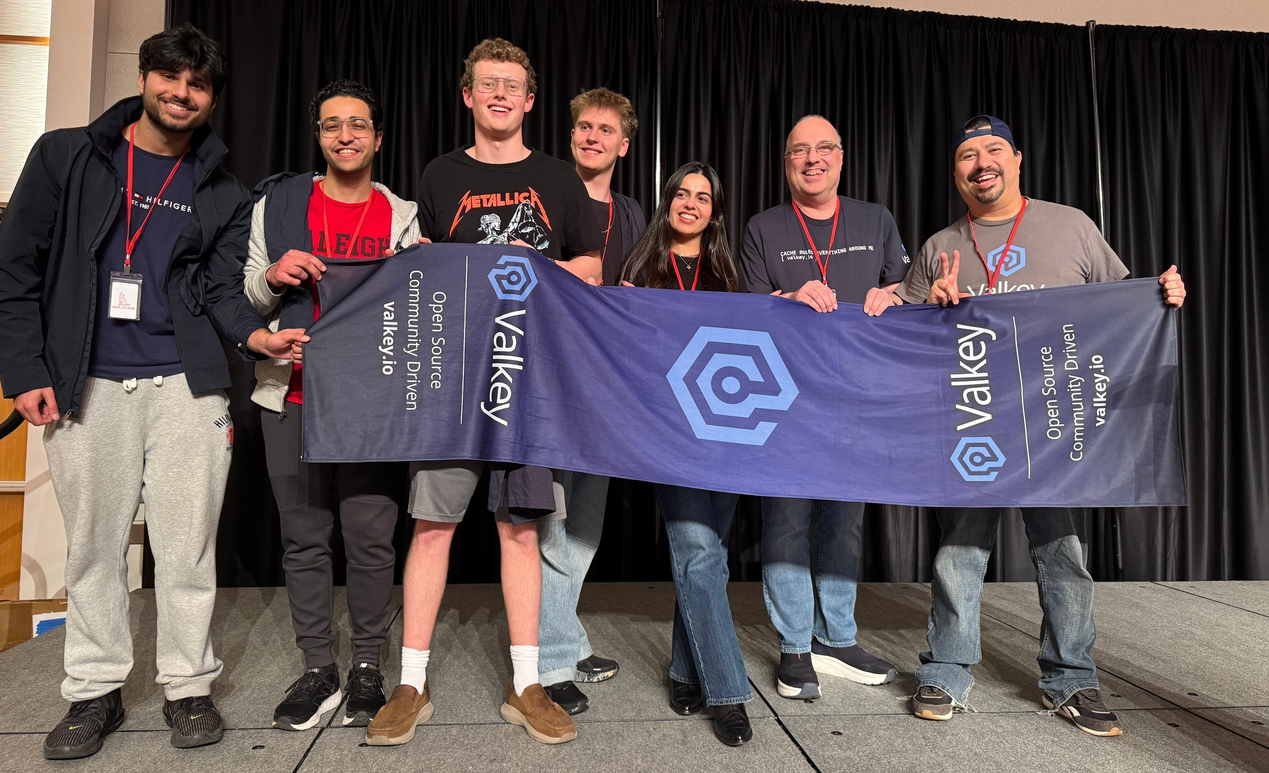
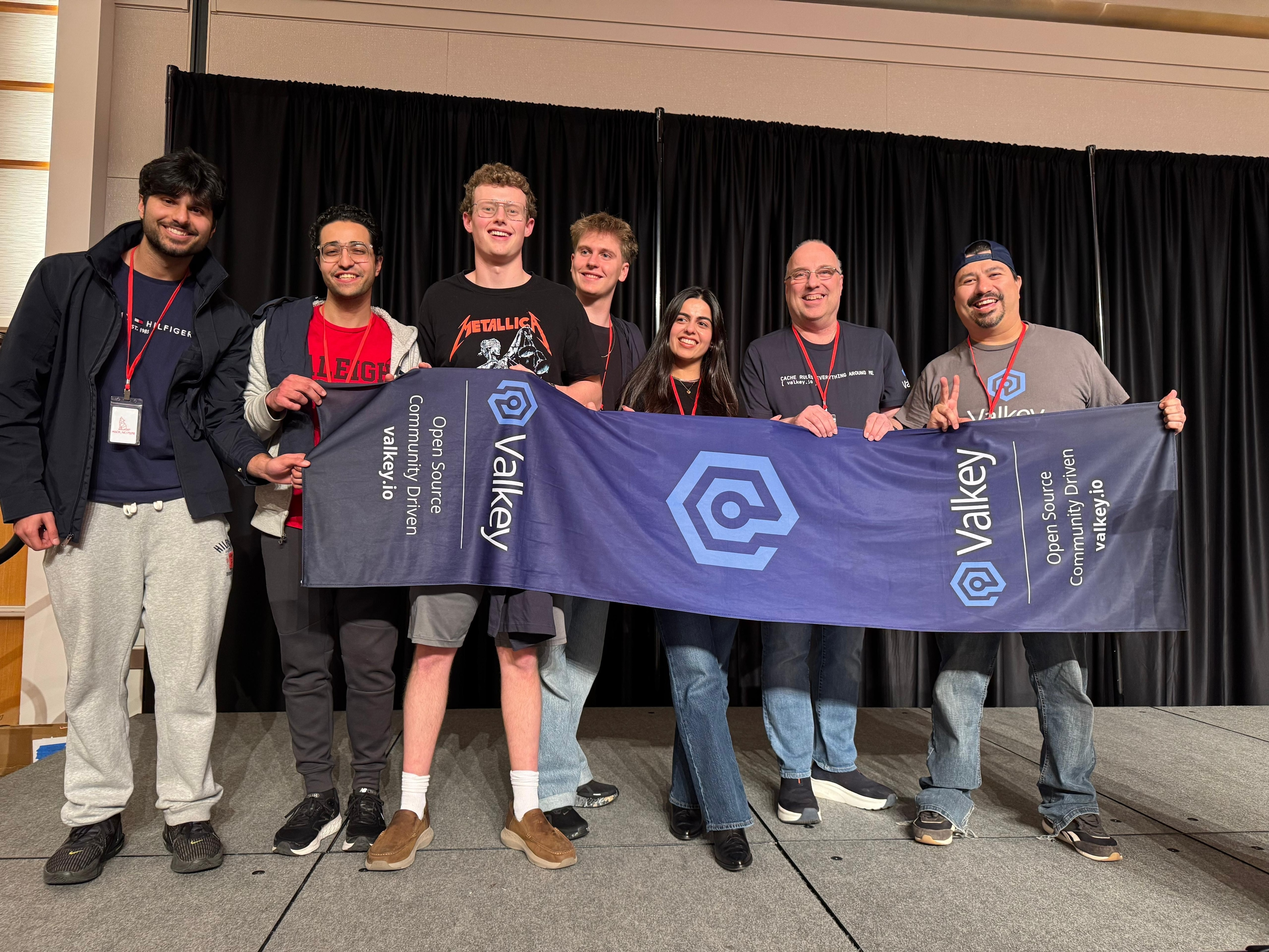
Update blog post description and fix punctuation
- Expand meta description with detailed summary of Hack NC State 2026 event, including winning projects and technical implementations
- Fix comma splice in opening sentence by replacing dash with comma
- Update hero image (optimized version)

diff --git a/content/blog/2026-02-28-valkey-at-hack-nc-state-2026-15-innovative-projects-built-in-24-hours/index.md b/content/blog/2026-02-28-valkey-at-hack-nc-state-2026-15-innovative-projects-built-in-24-hours/index.md
@@ -1,6 +1,6 @@
 +++
 title= "Valkey at Hack NC State 2026: 15 Innovative Projects Built in 24 Hours" 
-description = "Hackathons are a stress test - not just for the people participating, but for the tools they choose. When a team has 24 hours to go from a blank repo to a working demo, every technology choice gets pressure-tested in ways that months of careful planning never quite replicate. You find out fast what's intuitive, what breaks, and what delivers when it matters." 
+description = "At Hack NC State 2026, 15 teams participated in Valkey's API challenge during a 24-hour hackathon, building projects across AI-generated content detection, financial security, and privacy tools. The winning project, Catphish, built a voice verification system achieving sub-5ms operations, while runner-ups Privasee and GuardRock AI tackled privacy analysis and video manipulation detection. Teams leveraged Valkey's data structures such as hashes, sorted sets, streams, and vector embeddings to achieve sub-millisecond latencies and sophisticated caching, demonstrating how Valkey enables rapid development of scalable, socially impactful applications addressing AI voice cloning, financial fraud, deepfakes, and privacy protection."
 date= 2026-02-28 19:38:01 
 authors= ["mtuteja", "rlunar"]
 
@@ -9,7 +9,7 @@ featured = false
 featured_image = "/blog/valkey-at-hack-nc-state-2026-15-innovative-projects-built-in-24-hours/images/valkey-at-hack-nc-state-2026-01.jpg"
 +++
 
-Hackathons are a stress test - not just for the people participating, but for the tools they choose. When a team has 24 hours to go from a blank repo to a working demo, every technology choice gets pressure-tested in ways that months of careful planning never quite replicate. You find out fast what's intuitive, what breaks, and what delivers when it matters.
+Hackathons are a stress test, not just for the people participating, but for the tools they choose. When a team has 24 hours to go from a blank repo to a working demo, every technology choice gets pressure-tested in ways that months of careful planning never quite replicate. You find out fast what's intuitive, what breaks, and what delivers when it matters.
 
 On February 14-15, 2026, Valkey participated in [Hack NC State 2026](https://hackncstate.org/), North Carolina State University's premier hackathon. The event brought together 371 attendees organized into 96 teams for an intense 24-hour coding competition at the Talley Student Union on NC State's main campus.
 
